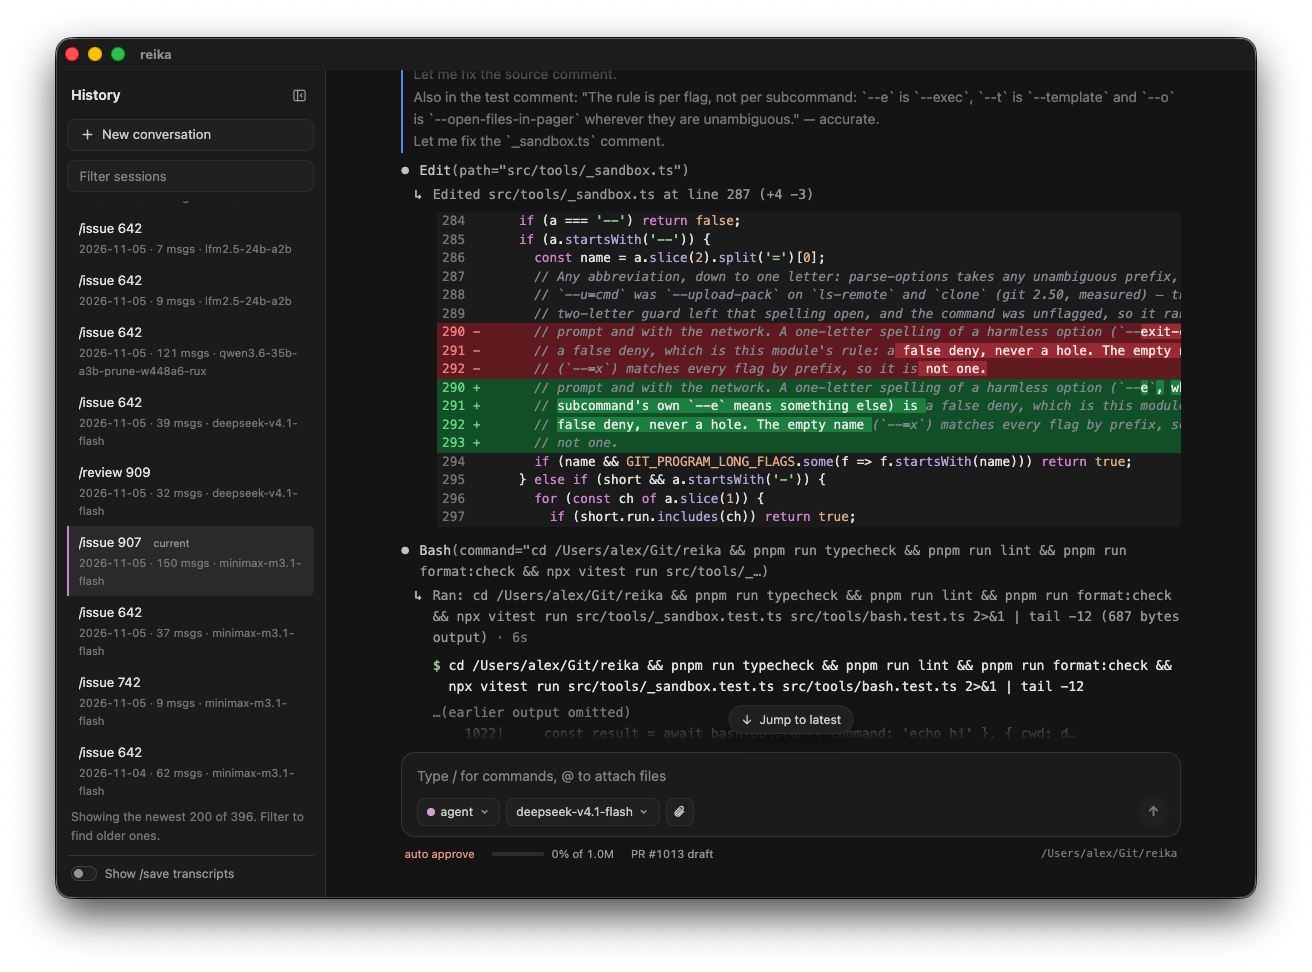
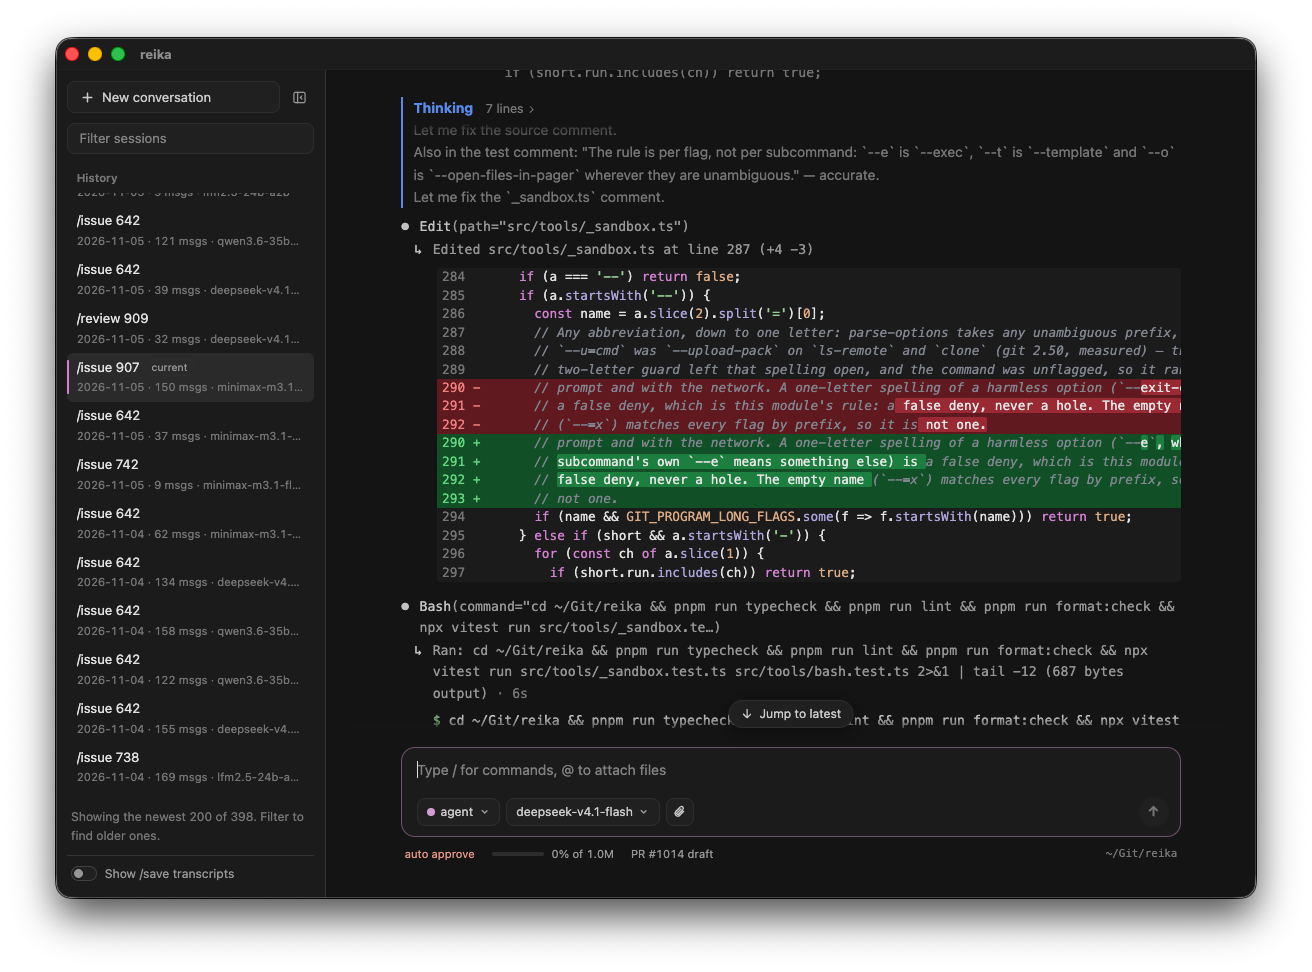
docs(web): retake the screenshot with scrubbed paths; drop the Opening… swap (#990)

diff --git a/src/web/client/History.tsx b/src/web/client/History.tsx
@@ -306,9 +306,9 @@ export function History({
                   {entry.chat ? <span className="history-tag">chat</span> : null}
                   {isCurrent ? <span className="history-tag">current</span> : null}
                 </span>
-                <span className="history-meta">
-                  {pending === entry.id ? 'Opening…' : sessionMeta(entry, now)}
-                </span>
+                {/* No "Opening…" in its place: a resume lands in a moment, and the swap read as a
+                    flicker. The disabled rows already say something is under way. */}
+                <span className="history-meta">{sessionMeta(entry, now)}</span>
               </button>
             </li>
           );
